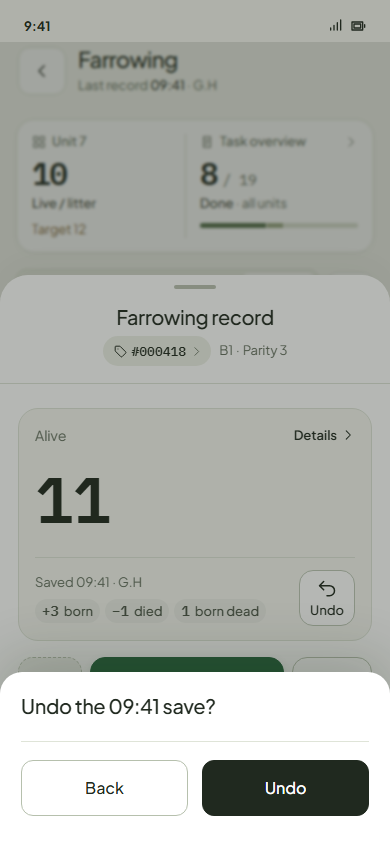
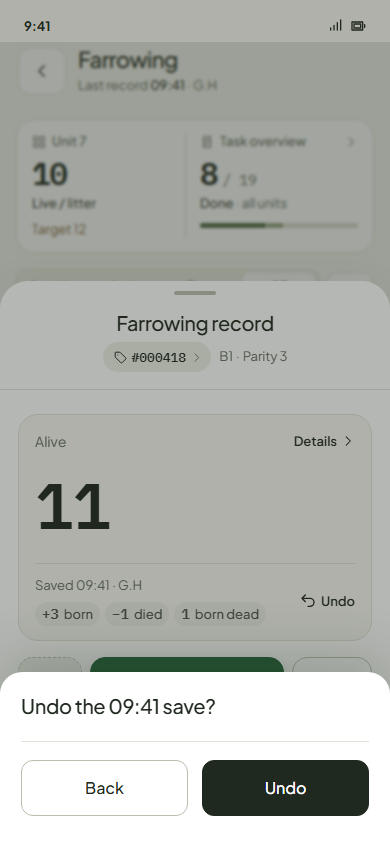
Farrowing redo: Undo as a quiet text action (no box), the weight of Details

diff --git a/features/farrowing/edit-record-round/undo.html b/features/farrowing/edit-record-round/undo.html
@@ -23,12 +23,12 @@ ul,ol{margin:0;padding-left:20px;color:var(--ink2)} li{margin:5px 0} li small{di
 <body><main>
 <p class="eyebrow">Farrowing · no Edit record · the redo for a fat finger</p>
 <h1>Undo the last save</h1>
-<p class="lead">Under a divider, the Alive card shows the <b>last save</b> as a run: the header is when and who (“Saved 09:41 · G.H”), with all of that run's results on one line below (+3 born, −1 died, 1 born dead). For the worker who saved it, a small <b>Undo</b> key sits on the right, centred: the return icon over the word. Undo asks “Undo the 09:41 save?”, Back · Undo. The visit comes back unsaved, exactly as it was. You fix it with the same keys and press Save.</p>
+<p class="lead">Under a divider, the Alive card shows the <b>last save</b> as a run: the header is when and who (“Saved 09:41 · G.H”), with all of that run's results on one line below (+3 born, −1 died, 1 born dead). For the worker who saved it, a quiet <b>Undo</b> sits on the right: a small return icon and the word, no box, the same weight as the card's “Details ›”. Undo asks “Undo the 09:41 save?”, Back · Undo. The visit comes back unsaved, exactly as it was. You fix it with the same keys and press Save.</p>
 
 <div class="shots">
 <figure><img src="undo-e0-not-mine.png" alt="Card with someone else's last save, no Undo"><figcaption><b>0. Someone else's.</b> “Saved Aug 26 08:41 · L.M” over +4 born: no Undo.</figcaption></figure>
 <figure><img src="undo-1-fat-finger.png" alt="Three born alive taps, not saved yet"><figcaption><b>1. The fat finger.</b> Three taps for two piglets. The run hides while unsaved. Save.</figcaption></figure>
-<figure><img src="undo-e1-saved.png" alt="Saved, the run with Undo in the card"><figcaption><b>2. Saved.</b> Alive 11. Under the divider: “Saved 09:41 · G.H”, +3 born · −1 died · 1 born dead on one line, and the <b>Undo</b> key centred on the right.</figcaption></figure>
+<figure><img src="undo-e1-saved.png" alt="Saved, the run with Undo in the card"><figcaption><b>2. Saved.</b> Alive 11. Under the divider: “Saved 09:41 · G.H”, +3 born · −1 died · 1 born dead on one line, and a quiet <b>Undo</b> on the right.</figcaption></figure>
 <figure><img src="undo-e2-ask.png" alt="Undo the 09:41 save? Back, Undo"><figcaption><b>3. Undo the 09:41 save?</b> Back · Undo.</figcaption></figure>
 <figure><img src="undo-3-reopened.png" alt="The visit reopened as not saved yet"><figcaption><b>4. Undone.</b> “Not saved yet”, +3 born. The record reads 9 until you save again.</figcaption></figure>
 <figure><img src="undo-4-fixed.png" alt="Fixed to plus two"><figcaption><b>5. Fixed.</b> − once: 11, +2 born. Save. The log keeps one Corrected line: “+2 born alive · Was +3 born alive”.</figcaption></figure>

diff --git a/features/farrowing/edit-record-round.md b/features/farrowing/edit-record-round.md
@@ -8,7 +8,7 @@ The owner's words (2026-11-02): *"edit record right now is way too confusing …
 
 *"lets just agree that there is no more edit record for farrowing what you fill is in what you fill in. but we need a way something simpler if users fat finger a death or a born. and need to redo it after pressing save."* Count is a global feature, and its spec is a round of its own (`features/count/`, branch `claude/frosty-chatelet-85b362`). The rest of this file is the round as it was put to the owner. Where it differs from this ruling, the ruling stands.
 
-**The redo: the last save in the Alive card, with Undo.** Under the figure, behind a divider, the card shows the sow's last save as a run. The header is when and who (`Saved 09:41 · G.H`). Under it are all of that run's results on **one line**, as the visit's chips (`+3 born`, `−1 died`, `1 born dead`). They are quiet and without glyphs because they are saved and the word says it; at most three kinds fit beside the key at 390, even `+12 born · −11 died · 10 born dead`, and only on a narrower phone may they wrap. For the worker who saved it, a small **Undo** key sits on the right, centred on the run: the `return` glyph over a 13px word (56 × 56, the secondary face, like the Death key). Undo asks only **Undo the 09:41 save?** with Back · Undo. Then the visit comes back to the drawer as unsaved, exactly as it was: the born chip, the deaths with their causes, the photos. The record drops back to what it was before it. The worker fixes it with the keys they already use (− takes a born back; Death changes a death) and presses Save. The log keeps one line for the visit, marked **Corrected**, with what it was.
+**The redo: the last save in the Alive card, with Undo.** Under the figure, behind a divider, the card shows the sow's last save as a run. The header is when and who (`Saved 09:41 · G.H`). Under it are all of that run's results on **one line**, as the visit's chips (`+3 born`, `−1 died`, `1 born dead`). They are quiet and without glyphs because they are saved and the word says it; at most three kinds fit beside the key at 390, even `+12 born · −11 died · 10 born dead`, and only on a narrower phone may they wrap. For the worker who saved it, a quiet **Undo** sits on the right, centred on the run: a text action (the `return` glyph and the word at 13px/600, no box), the same weight as the card's `Details ›`, with a 44px hit area that doesn't show. It's a small act, so it looks like one (owner, 2026-11-02). Undo asks only **Undo the 09:41 save?** with Back · Undo. Then the visit comes back to the drawer as unsaved, exactly as it was: the born chip, the deaths with their causes, the photos. The record drops back to what it was before it. The worker fixes it with the keys they already use (− takes a born back; Death changes a death) and presses Save. The log keeps one line for the visit, marked **Corrected**, with what it was.
 
 The card stays one surface with two sibling targets. The figure area opens Details as before; Undo is its own button beside the line, never nested inside the door. The card's quiet `Saved 08:20` goes, because the line says it. While a visit is unsaved the line hides: the chips are the visit then, and Clear empties it.
 
@@ -22,7 +22,7 @@ Drawn first and dropped:
 | | | |
 |---|---|---|
 | ![Not mine](edit-record-round/undo-e0-not-mine.png) | ![Fat finger](edit-record-round/undo-1-fat-finger.png) | ![Saved, Undo](edit-record-round/undo-e1-saved.png) |
-| **0. Someone else's last save.** `Saved Aug 26 08:41 · L.M` over `+4 born`: no Undo. | **1. The fat finger.** Three taps for two piglets, plus a death and a stillborn in the same visit. The run hides while unsaved. Save. | **2. Saved.** Alive 11; under the divider `Saved 09:41 · G.H`, then `+3 born` `−1 died` `1 born dead` on one line, with the **Undo** key centred on the right. |
+| **0. Someone else's last save.** `Saved Aug 26 08:41 · L.M` over `+4 born`: no Undo. | **1. The fat finger.** Three taps for two piglets, plus a death and a stillborn in the same visit. The run hides while unsaved. Save. | **2. Saved.** Alive 11; under the divider `Saved 09:41 · G.H`, then `+3 born` `−1 died` `1 born dead` on one line, with a quiet **Undo** on the right. |
 | ![Ask](edit-record-round/undo-e2-ask.png) | ![Undone](edit-record-round/undo-3-reopened.png) | ![Fixed](edit-record-round/undo-4-fixed.png) |
 | **3. Undo the 09:41 save?** Back · Undo. Nothing else. | **4. Undone.** `Alive · Not saved yet`, 12 with `+3 born`. The record reads 9 until Save. | **5. Fixed.** − once: 11 with `+2 born`. Save. |
 | ![Log](edit-record-round/undo-5-log.png) | ![Litter details](edit-record-round/undo-6-litter.png) | |
